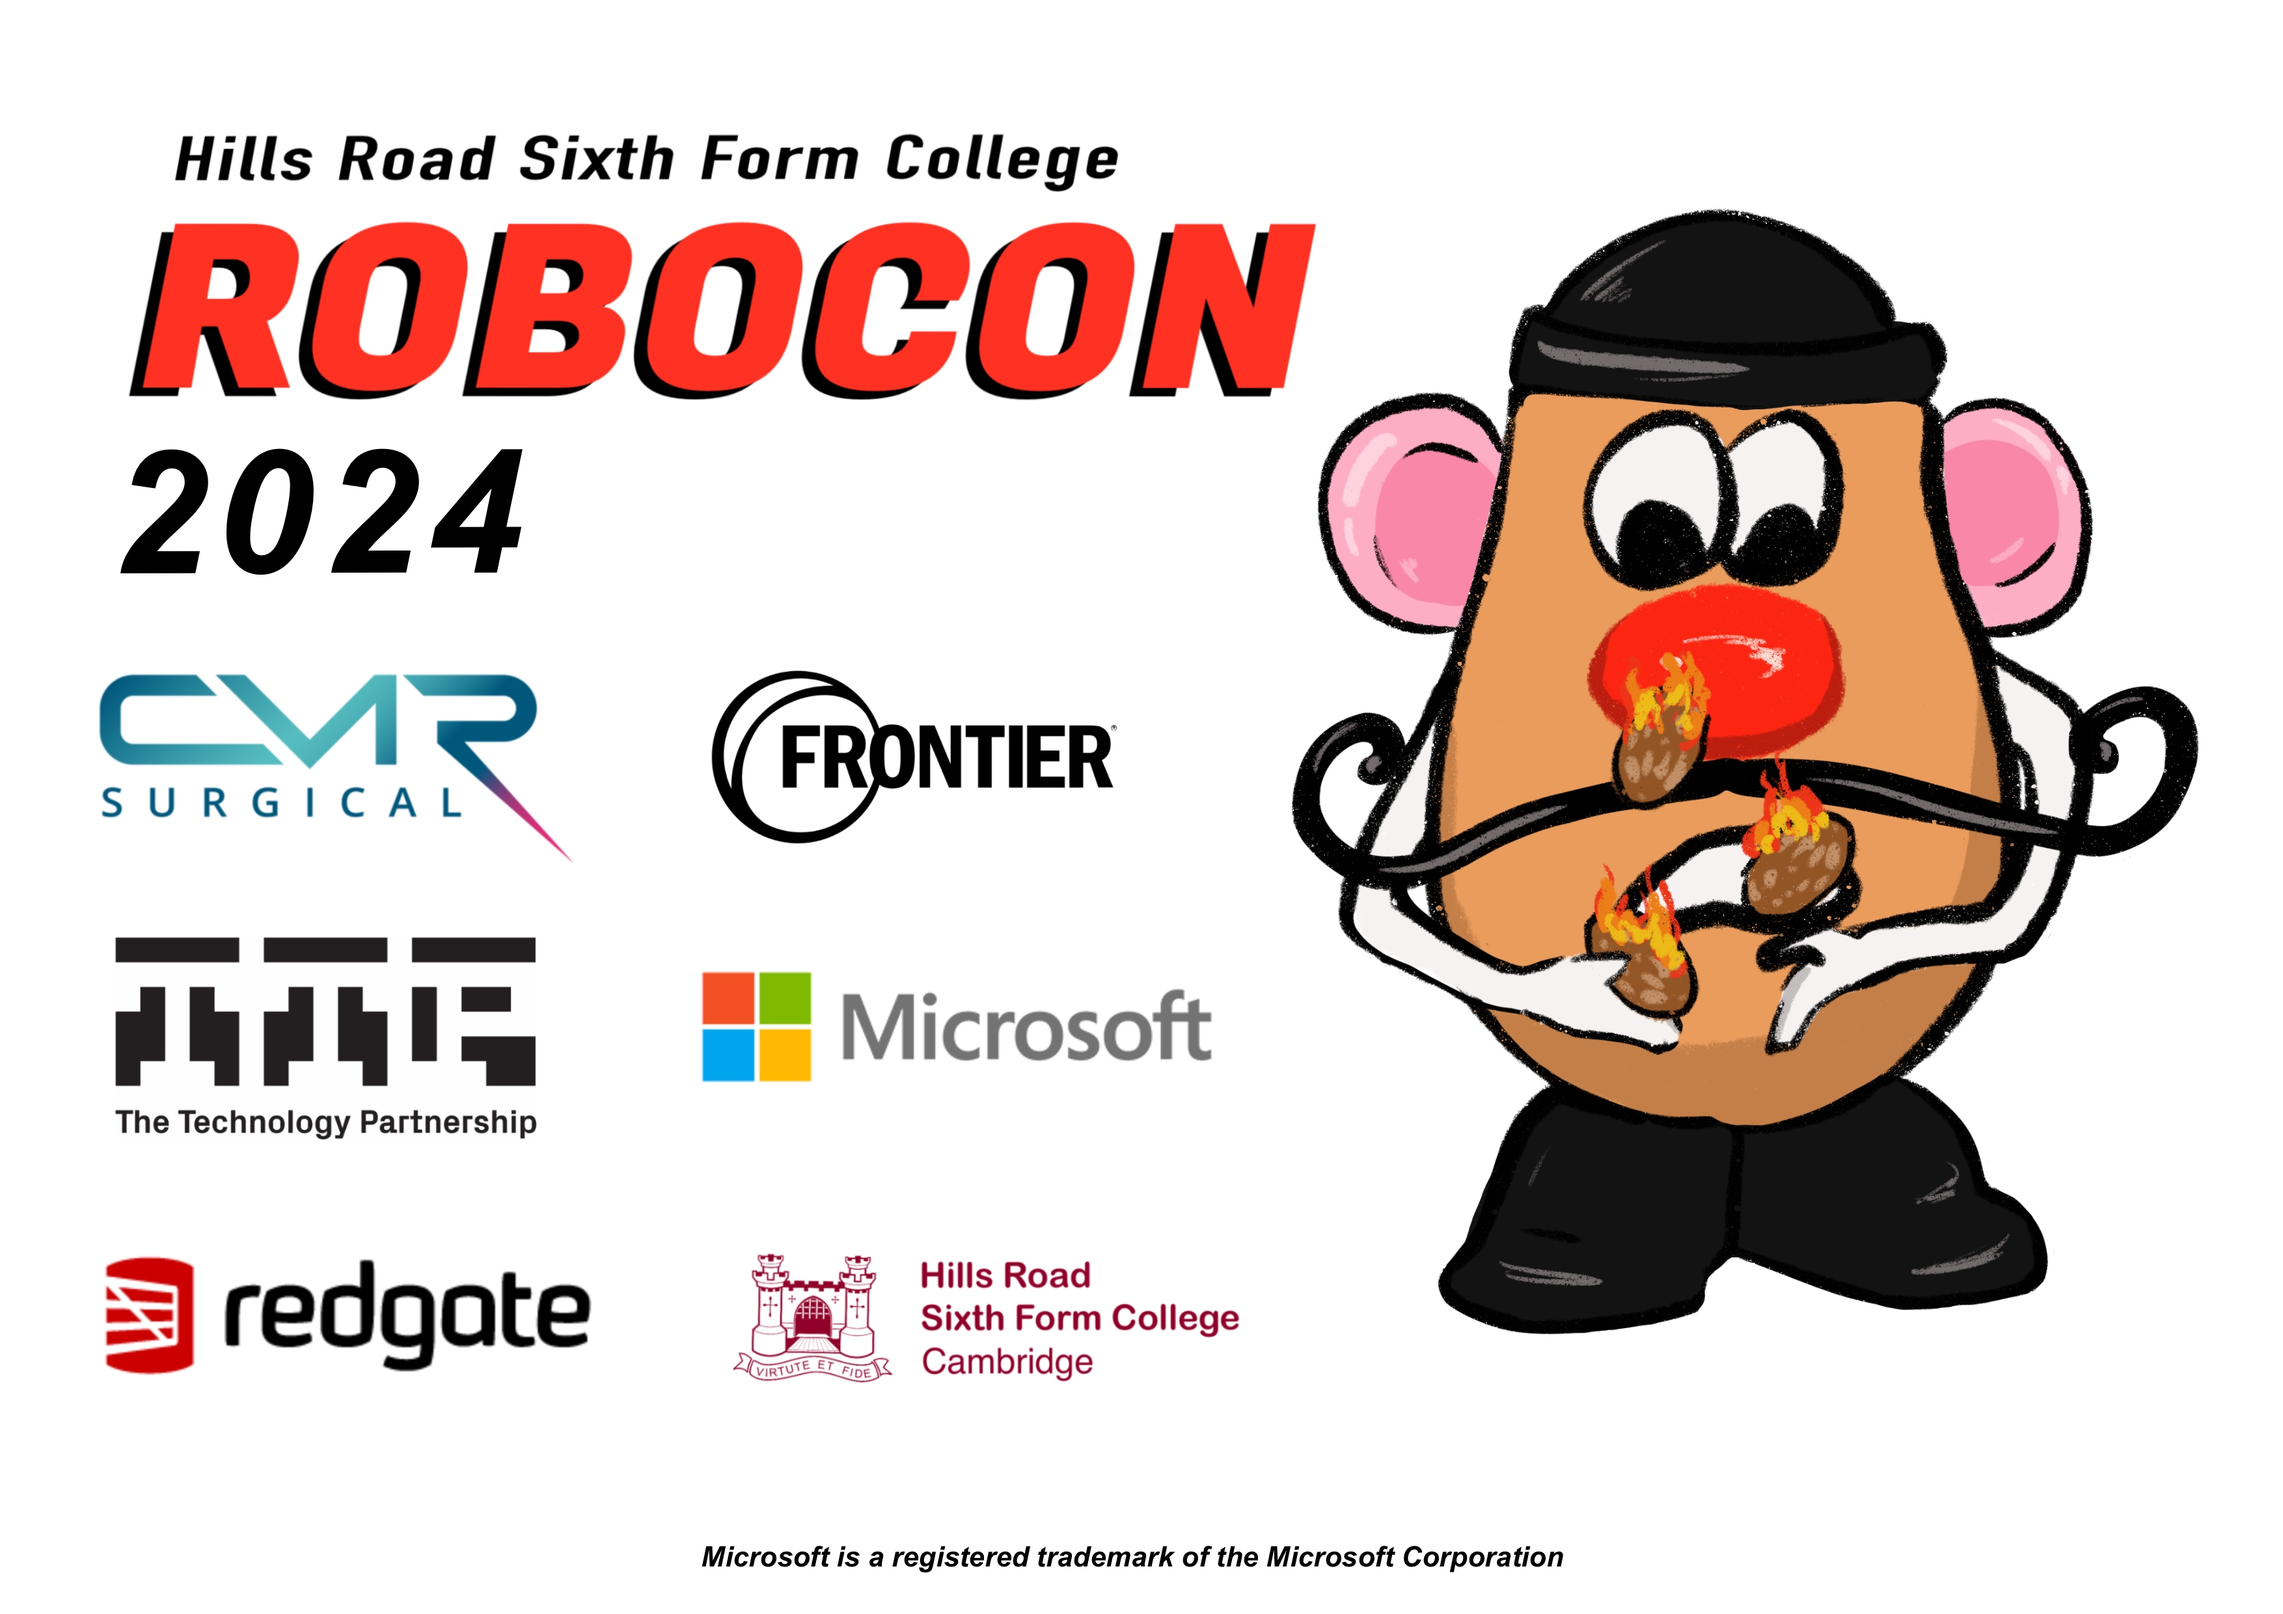
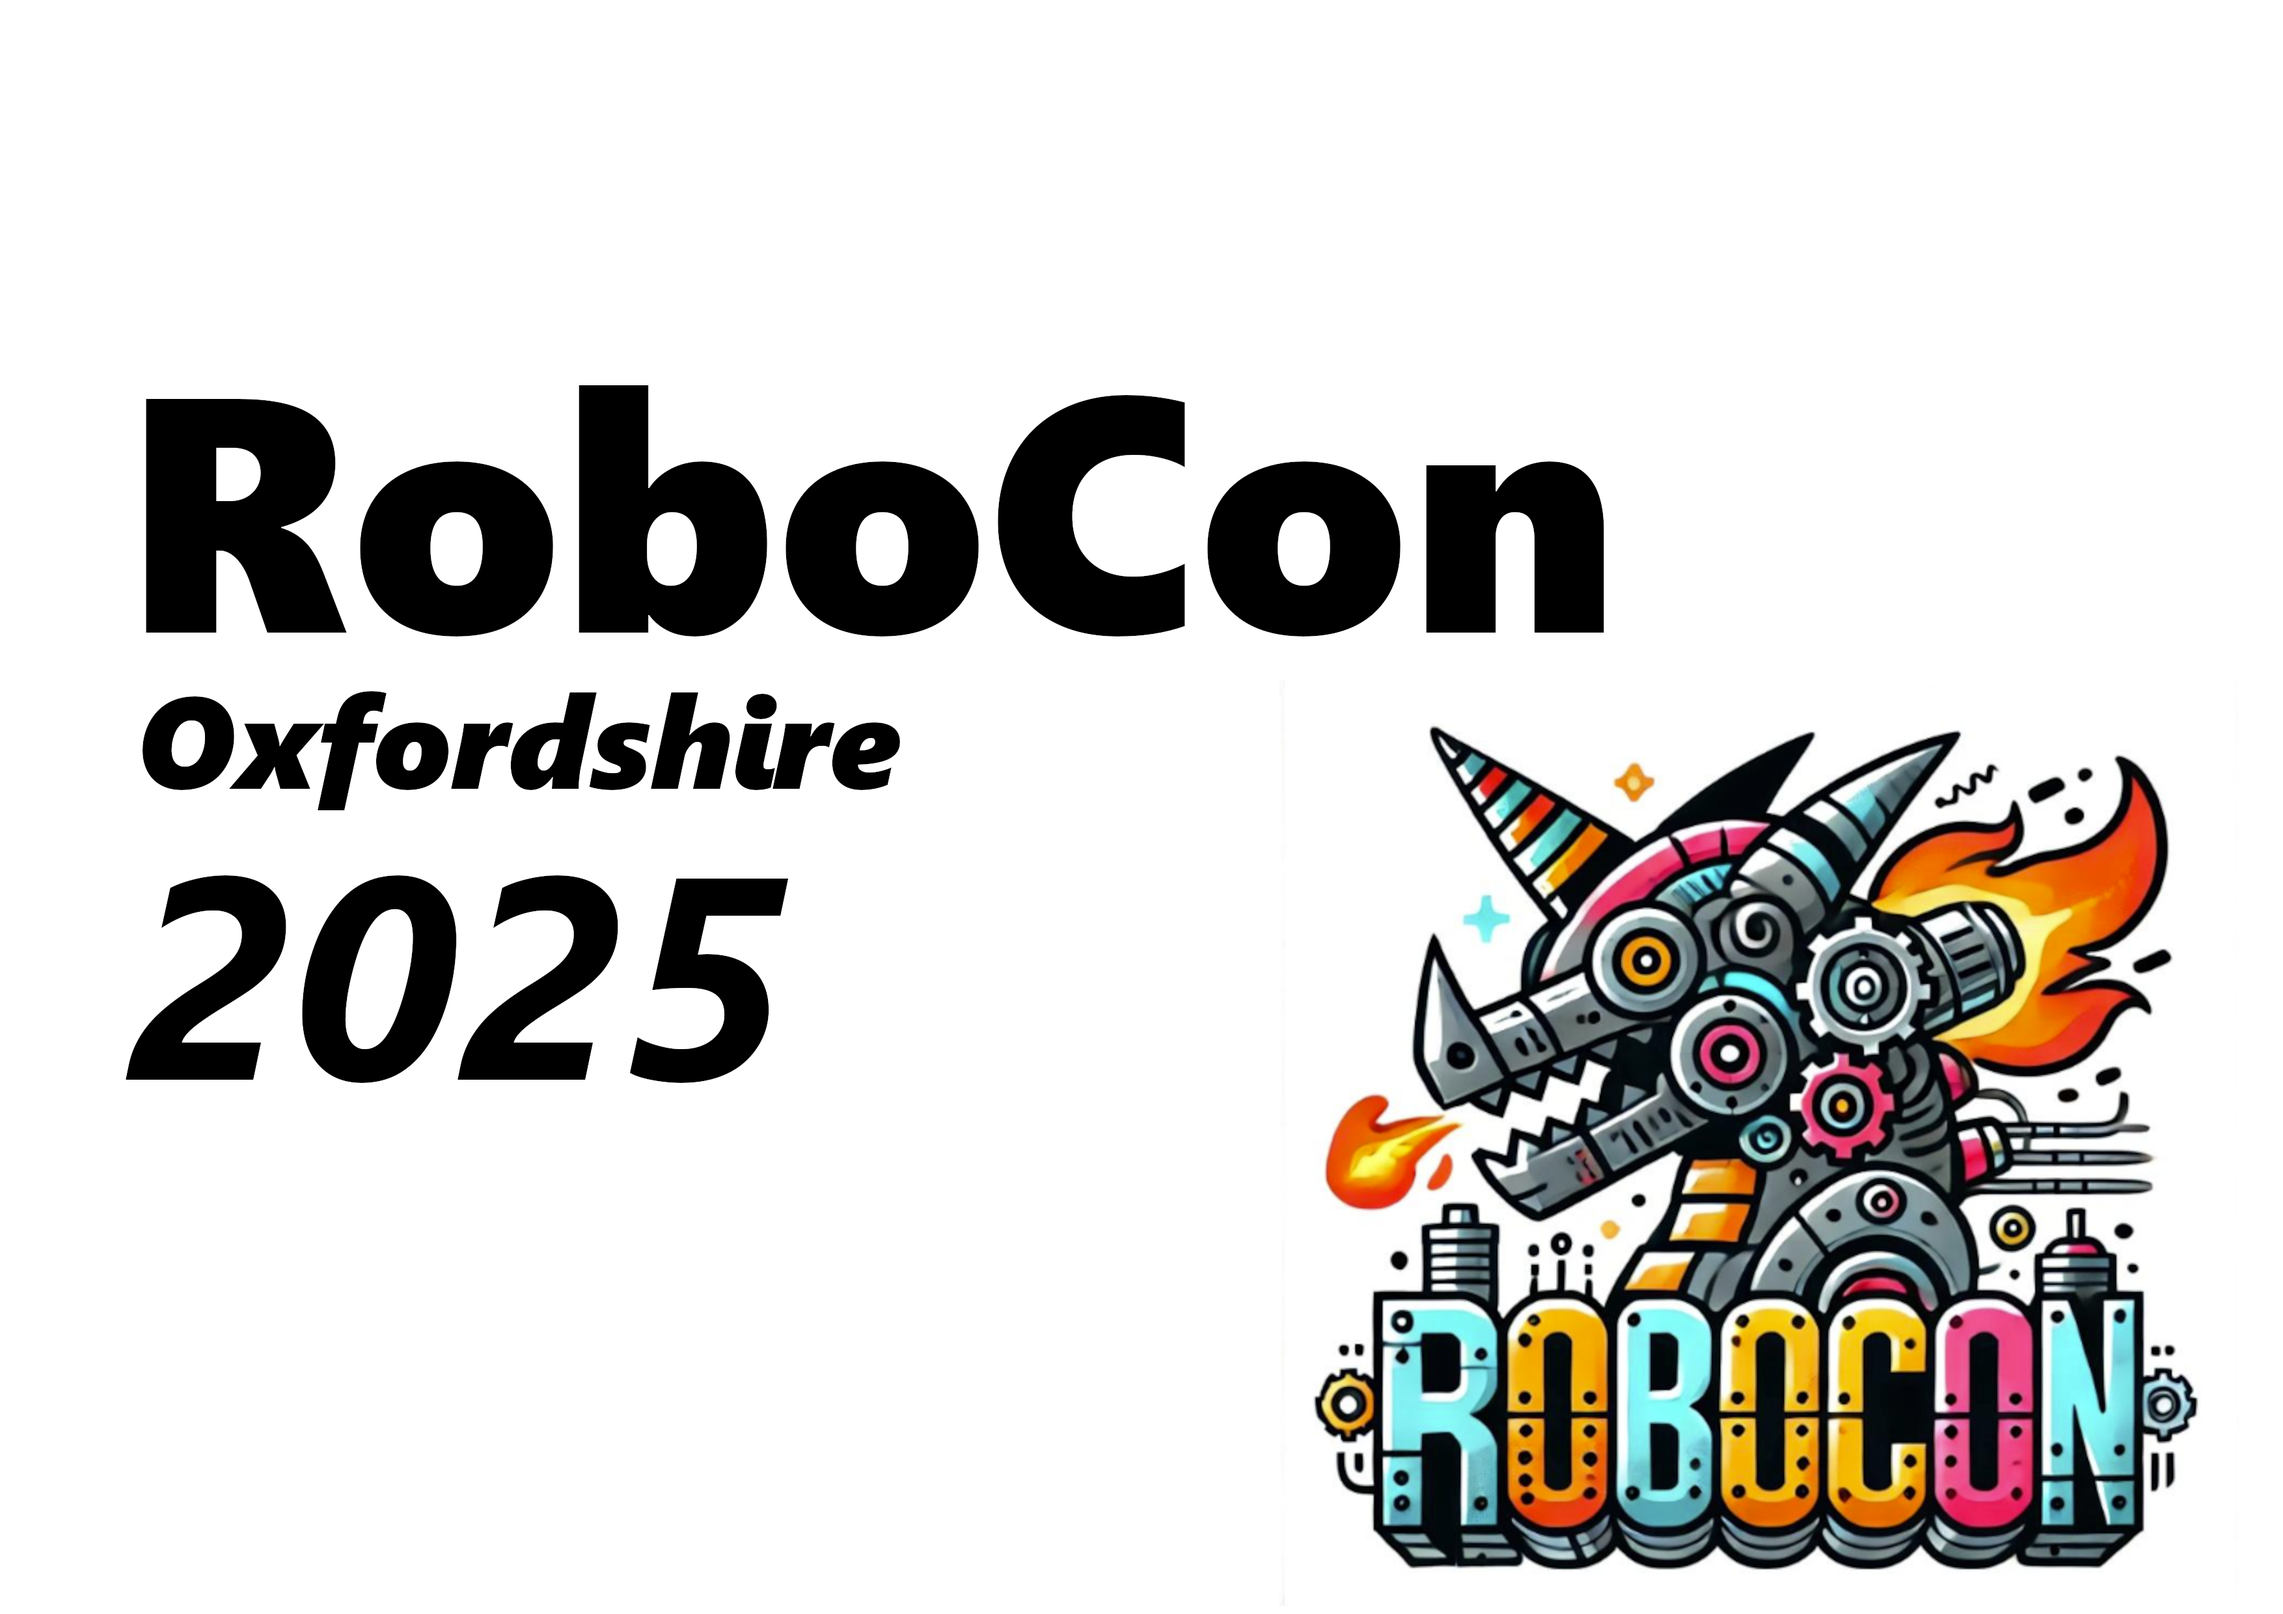
Updated header image and removed link from rules.md

diff --git a/docs/rules.md b/docs/rules.md
@@ -5,12 +5,4 @@ position: 2
 ---
 # Rules
 
-You can download the official rules for 2024 [here](/docs/rulebook.pdf).
-
-:::tip
-
-If you are viewing this page on your BrainBox then please check the website for the latest revision.
-
-:::
-
-![Game logo](./images/roboconHeader.png)
+You will have been provided with the official rules for 2025 at the launch event. If you need a new copy, please email peter.willis@abingdon.org.uk
